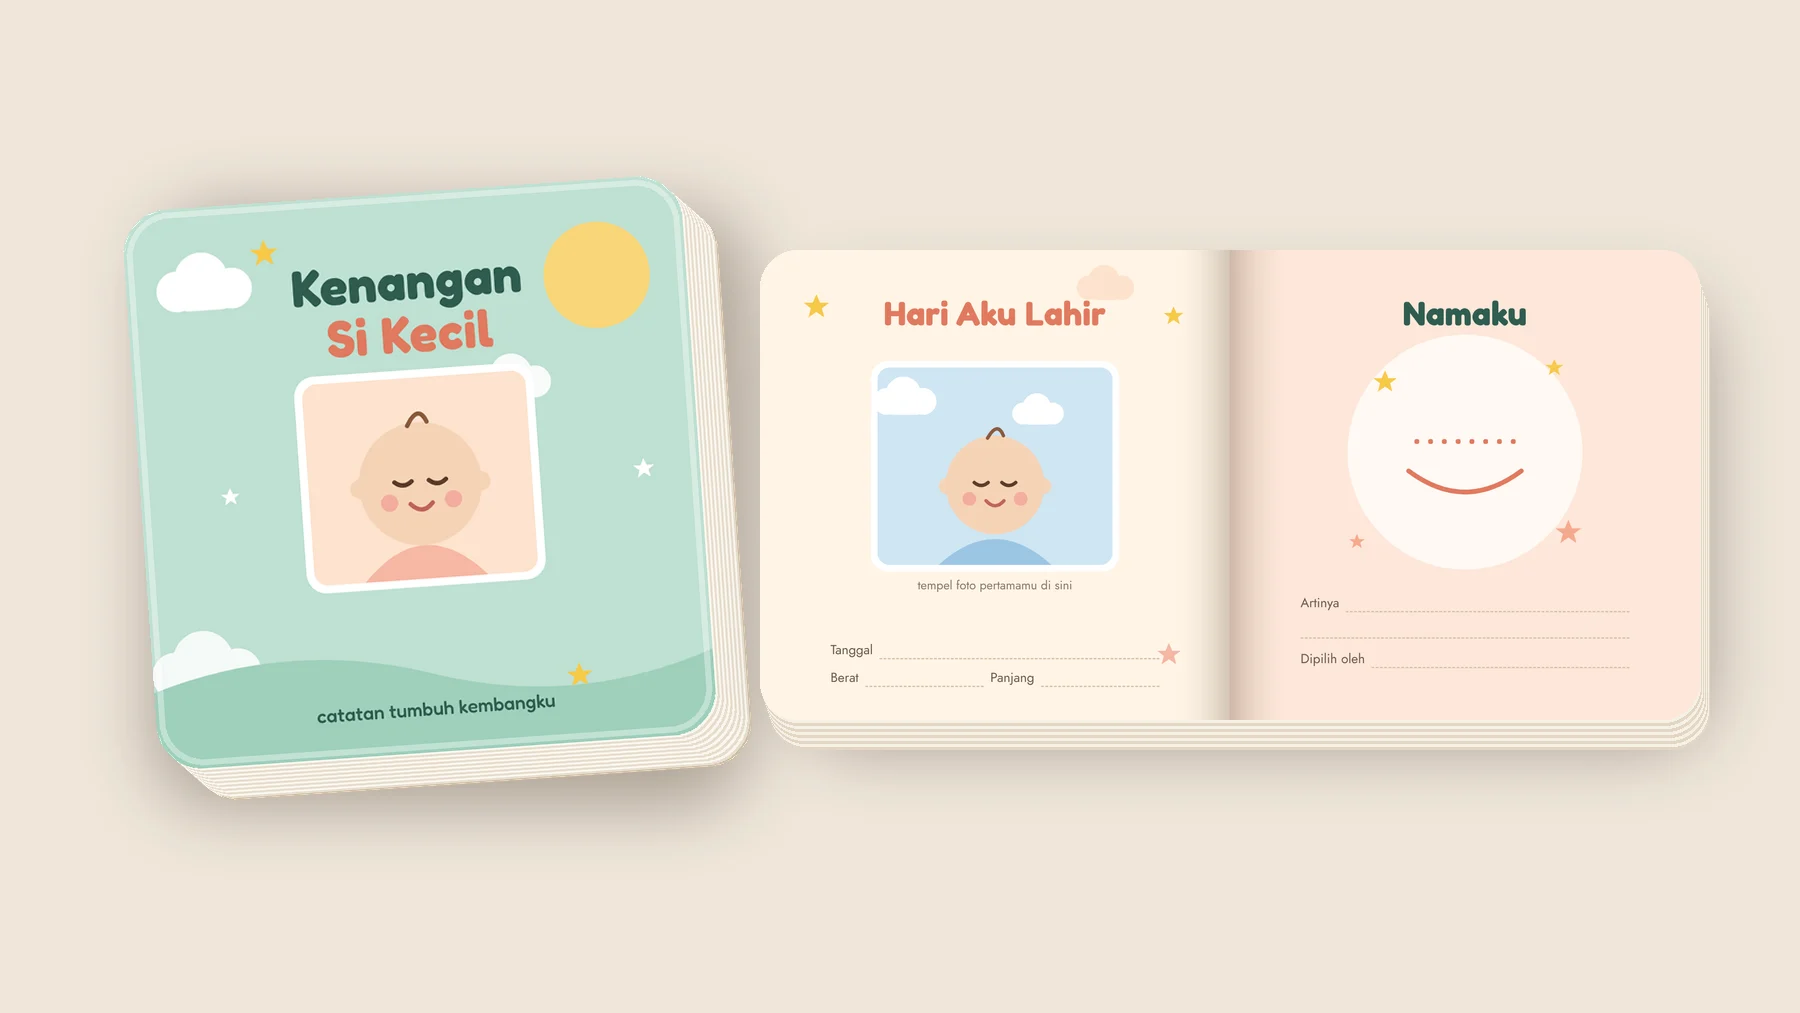
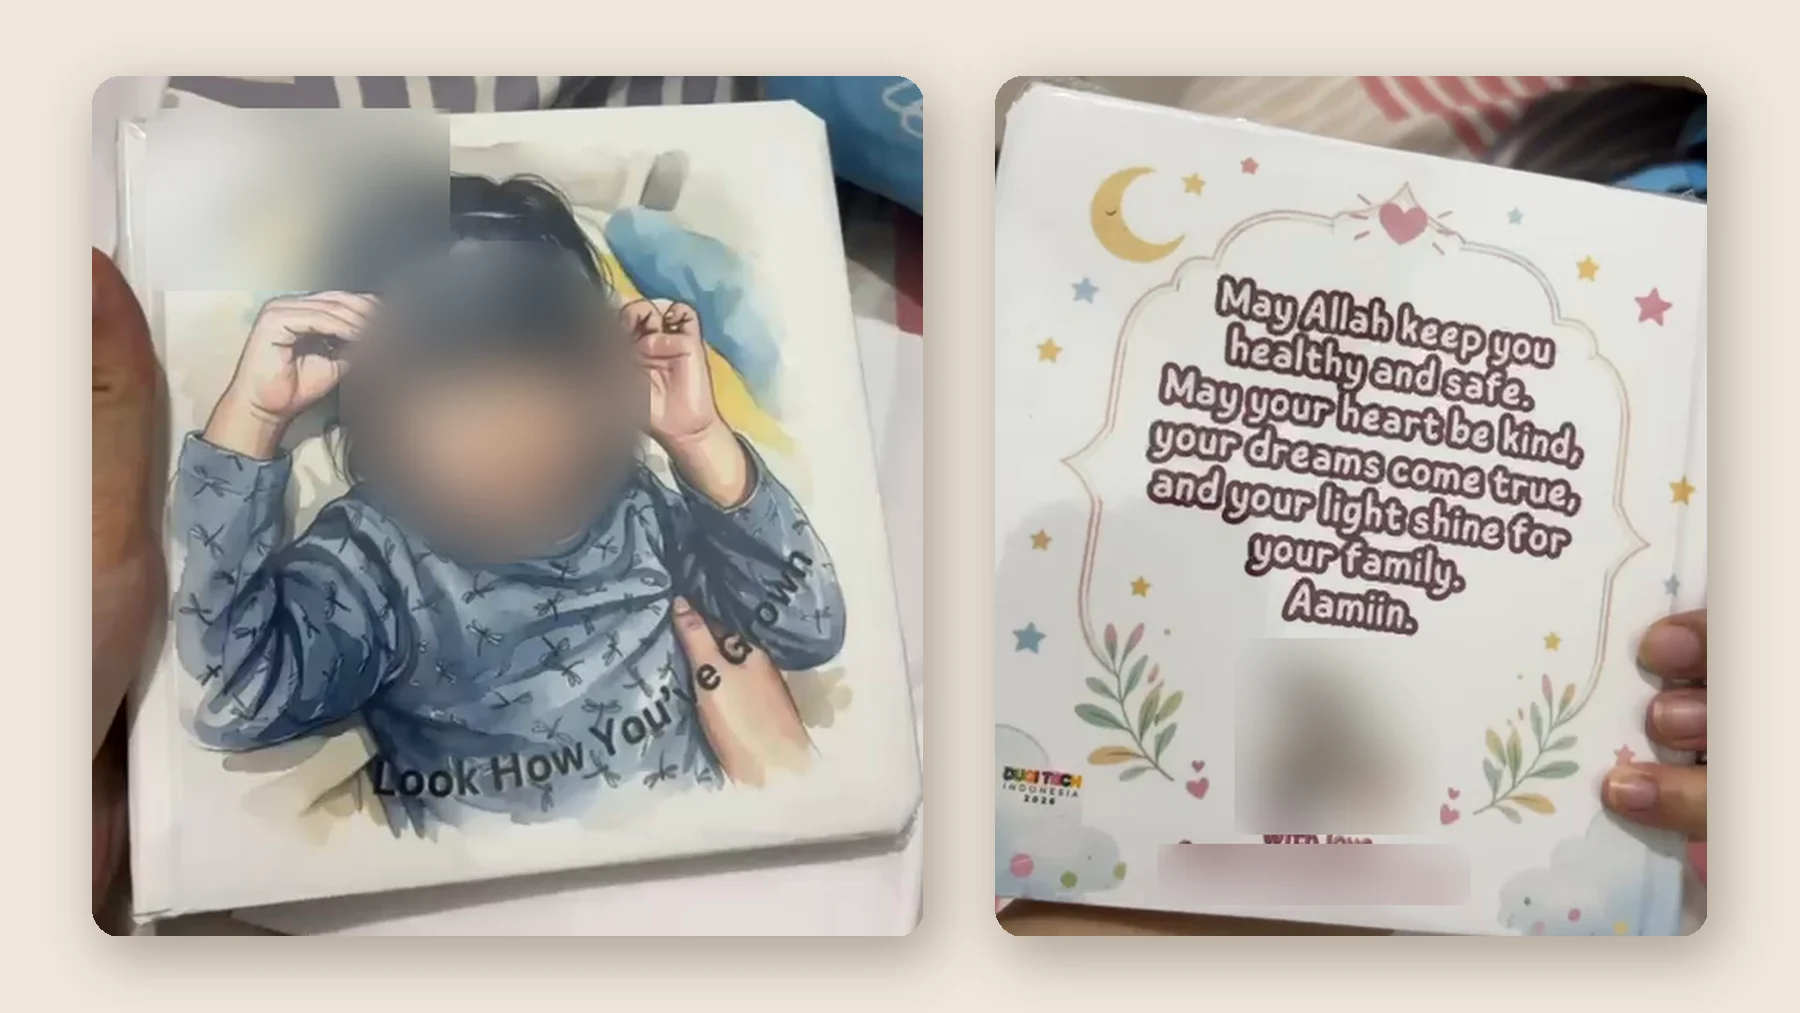
Ganti mockup board book dengan foto buku asli yang identitasnya disamarkan
Claude-Session: https://claude.ai/code/session_01L1QprujAjyJ4QG9MGULLvj

diff --git a/src/components/contact/contact-form/service-wizard.tsx b/src/components/contact/contact-form/service-wizard.tsx
@@ -1,7 +1,7 @@
 import { useState } from 'react'
 
 import { AnimatePresence, motion } from 'motion/react'
-import { ArrowUpRightIcon, CheckIcon, ChevronLeftIcon, ChevronRightIcon } from 'lucide-react'
+import { CheckIcon, ChevronLeftIcon, ChevronRightIcon } from 'lucide-react'
 import { toast } from 'sonner'
 
 import { CONTACT } from '@/consts'
@@ -22,8 +22,7 @@ export const SERVICES = [
     price: 'Rp185.000',
     meta: '13 - 15 halaman · termasuk cetak dan desain ilustrasi',
     description:
-      'Buku halaman tebal berisi foto dan momen tumbuh kembang buah hati. Selesai maks. 5 hari kerja, belum termasuk ongkir.',
-    example: 'https://heyzine.com/flip-book/4ad570f64d.html'
+      'Buku halaman tebal berisi foto dan momen tumbuh kembang buah hati. Selesai maks. 5 hari kerja, belum termasuk ongkir.'
   },
   {
     id: 'poster',
@@ -199,18 +198,6 @@ const ServiceWizard = ({ className }: { className?: string }) => {
                           </div>
                           <p className='text-accent text-sm'>{item.meta}</p>
                           <p className='text-muted-foreground text-sm'>{item.description}</p>
-                          {'example' in item && (
-                            <a
-                              href={item.example}
-                              target='_blank'
-                              rel='noopener noreferrer'
-                              onClick={event => event.stopPropagation()}
-                              className='text-accent inline-flex items-center gap-1 pt-1 text-sm font-medium underline-offset-4 hover:underline'
-                            >
-                              Lihat contoh buku
-                              <ArrowUpRightIcon className='size-3.5' />
-                            </a>
-                          )}
                         </div>
                       </div>
                     </div>
